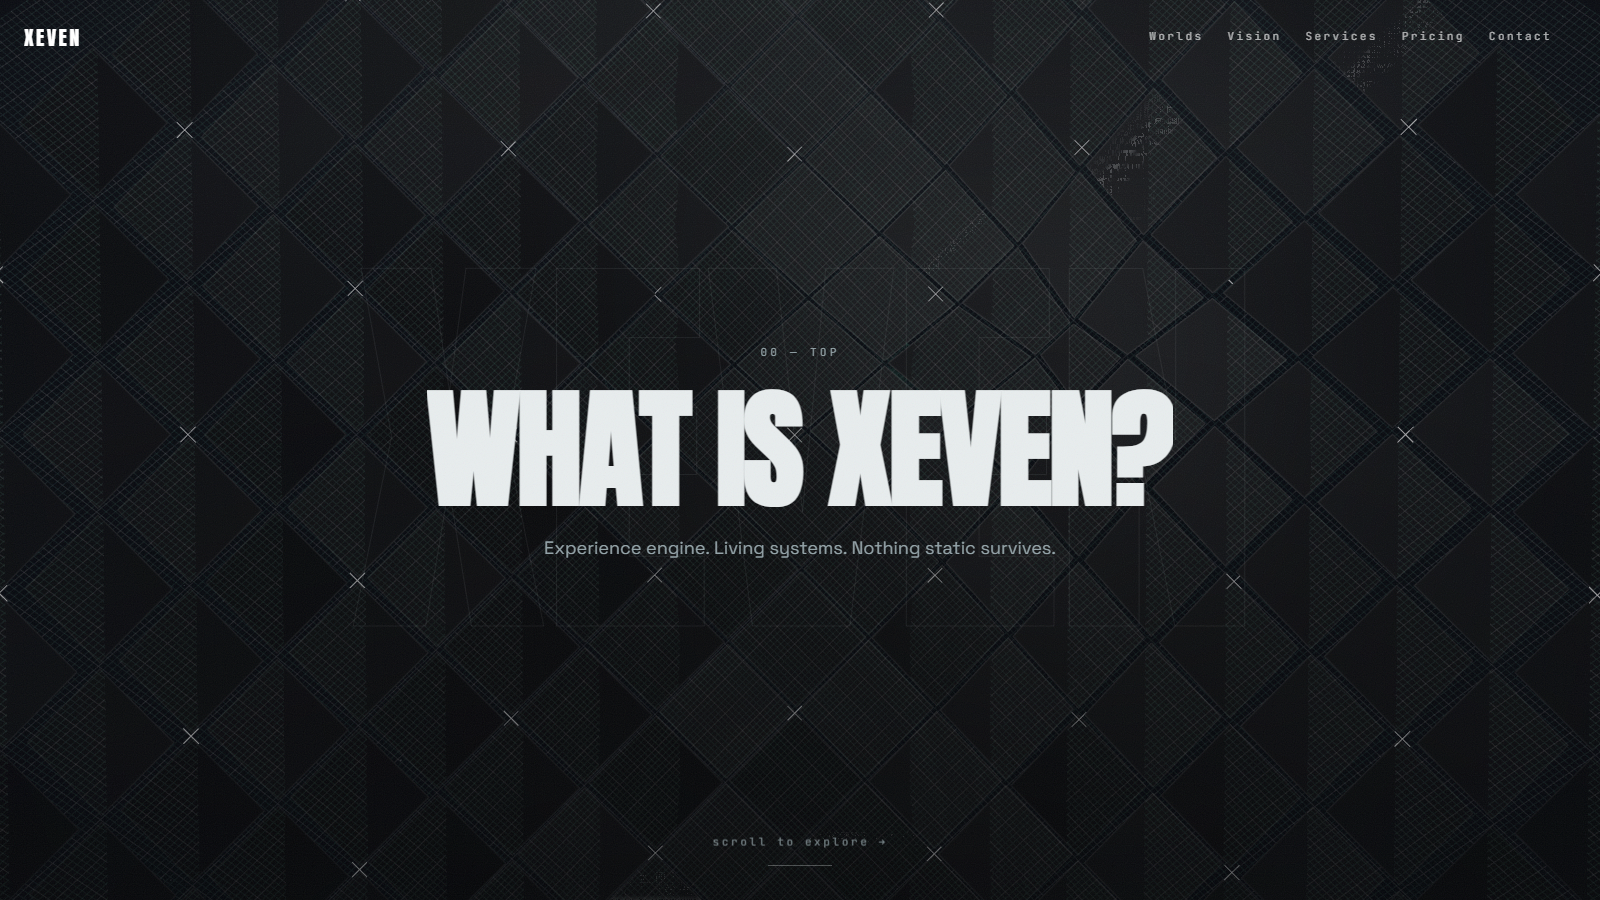
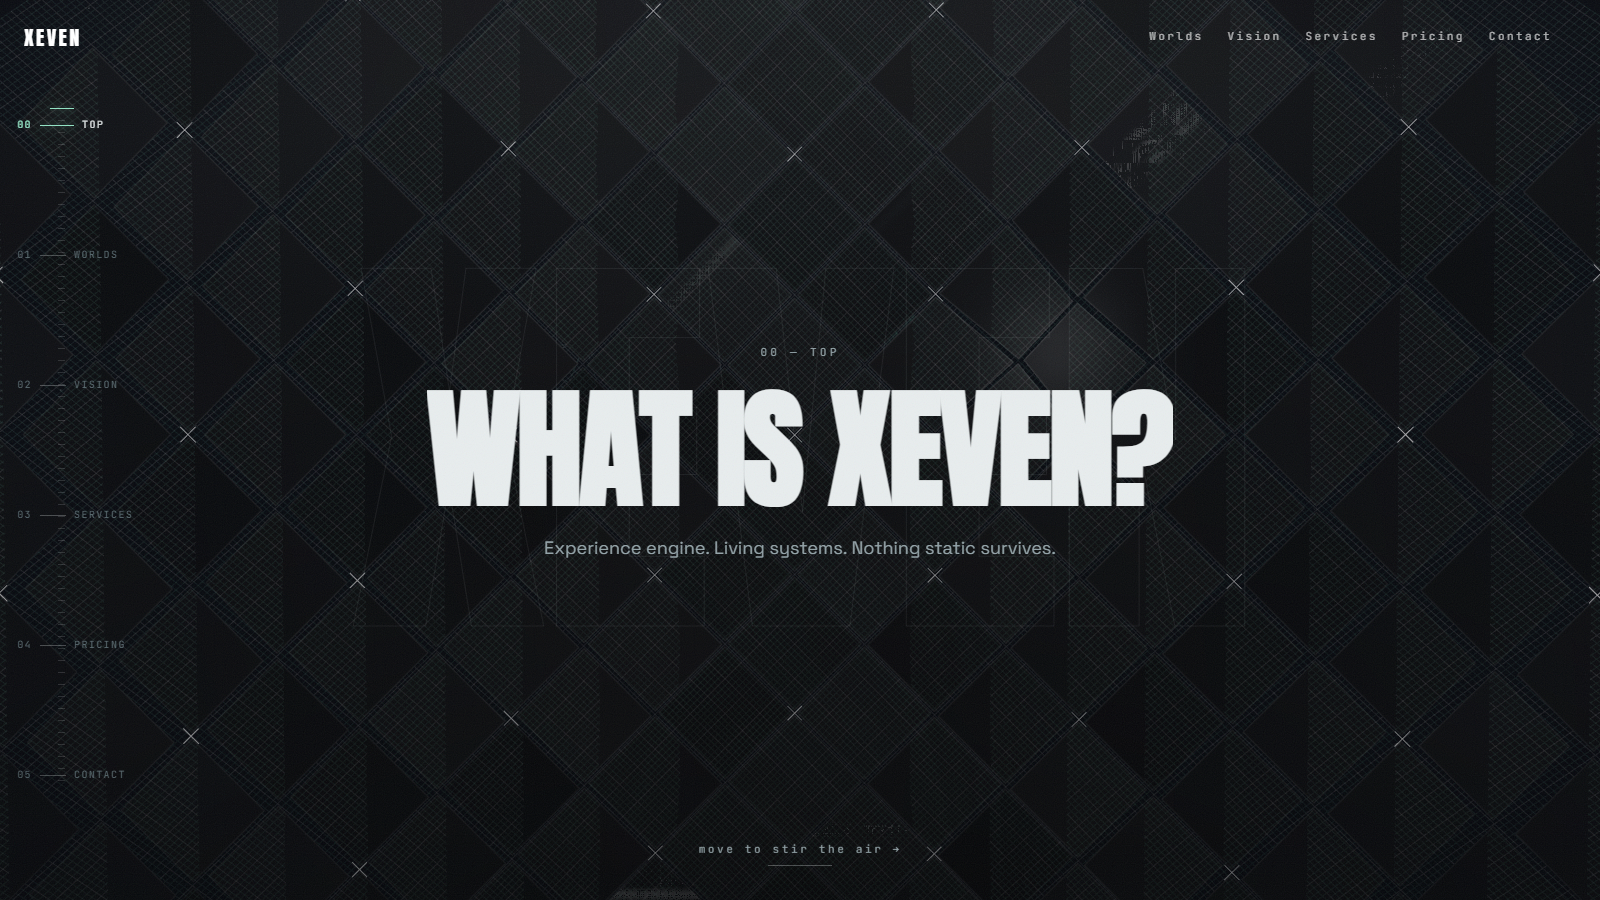
Fingertip air flare with trail, global survey ruler

diff --git a/src/components/VoidWorld.tsx b/src/components/VoidWorld.tsx
@@ -187,7 +187,9 @@ export default function VoidWorld() {
     quadGeo.setAttribute('aQJ', new THREE.InstancedBufferAttribute(aQJ, 1))
     const quadUniforms = {
       uTime: { value: 0 },
-      uWakePos: { value: new THREE.Vector2(9999, 9999) },
+      uTrail: {
+        value: Array.from({ length: 5 }, () => new THREE.Vector3(9999, 9999, 0)),
+      },
       uWakeVel: { value: new THREE.Vector2(0, 0) },
       uVel: { value: 0 },
       uShowcase: { value: 1 },
@@ -204,7 +206,7 @@ export default function VoidWorld() {
         varying float vSeed;
         varying float vQI;
         varying float vQJ;
-        uniform vec2 uWakePos;
+        uniform vec3 uTrail[5];
         uniform vec2 uWakeVel;
         void main() {
           vUv = uv;
@@ -212,21 +214,25 @@ export default function VoidWorld() {
           vQI = aQI;
           vQJ = aQJ;
           vec4 wp = modelMatrix * instanceMatrix * vec4(position, 1.0);
-          // air flare: the medium bends around the cursor's motion — a wide
-          // invisible pressure field that flares with speed and dies at
-          // rest. Displacement only; the body and trail stay invisible.
-          vec2 wdir = wp.xy - uWakePos;
-          float wdist = length(wdir);
-          float wfall = exp(-wdist * wdist / 32.0);
-          float wmag = min(1.0, length(uWakeVel) * 0.35) * 0.55 * wfall;
-          wp.xy -= (wdir / max(wdist, 1e-3)) * wmag;
+          // fingertip air: the head + its short trail bend the medium at
+          // touch scale (σ≈0.8u), gated by damped speed — dead at rest.
+          // No body, no glow, no trail geometry; only the bend reads.
+          float wspd = min(1.0, length(uWakeVel) * 0.35);
+          vec2 bend = vec2(0.0);
+          for (int i = 0; i < 5; i++) {
+            vec2 tdir = wp.xy - uTrail[i].xy;
+            float td = length(tdir);
+            float tfall = exp(-td * td / 1.3);
+            bend -= (tdir / max(td, 1e-3)) * (tfall * uTrail[i].z * 0.12);
+          }
+          wp.xy += bend * wspd;
           vWorld = wp.xyz;
           gl_Position = projectionMatrix * viewMatrix * wp;
         }
       `,
       fragmentShader: /* glsl */ `
         uniform float uTime;
-        uniform vec2 uWakePos;
+        uniform vec3 uTrail[5];
         uniform vec2 uWakeVel;
         uniform float uVel;
         uniform float uShowcase;
@@ -254,11 +260,15 @@ export default function VoidWorld() {
           float amp = 1.0 + uVel * 0.3;
           float glow = wave * amp;
           col += vec3(1.0) * glow * uShowcase;
-          // flare whisper: a breath of shimmer where the air bends (the
-          // bend does the talking; this stays barely visible)
+          // translucent air: the head + trail read as a faint neutral
+          // presence where the medium bends — visible, never prominent
           float wspd = min(1.0, length(uWakeVel) * 0.35);
-          float wdp = distance(vWorld.xy, uWakePos);
-          col += vec3(1.0) * exp(-wdp * wdp / 32.0) * wspd * 0.09 * uShowcase;
+          float air = 0.0;
+          for (int i = 0; i < 5; i++) {
+            vec2 adp = vWorld.xy - uTrail[i].xy;
+            air += exp(-dot(adp, adp) / 1.3) * uTrail[i].z;
+          }
+          col += vec3(1.0) * air * wspd * 0.05 * uShowcase;
           // roaming cinema: sparse panels on a 7s clock
           float slot = floor(uTime / 7.0);
           float lp = fract(uTime / 7.0);
@@ -375,14 +385,17 @@ export default function VoidWorld() {
       group.add(mesh)
     }
 
-    // ---- magnetic wake feed: damped pointer position + velocity drive
-    // the vertex bend. Eased (nothing snaps), decaying (nothing lingers).
+    // ---- fingertip air feed: eased pointer + a short decaying trail.
+    // Samples drop every ~40ms while inside; strengths drain per frame,
+    // so the trail evaporates behind motion and vanishes at rest.
     let btx = window.innerWidth / 2
     let bty = window.innerHeight / 2
     let bInside = false
     const wPos = { x: 9999, y: 9999 }
     const wVel = { x: 0, y: 0 }
     const wPrev = { x: 9999, y: 9999 }
+    const trail = Array.from({ length: 5 }, () => ({ x: 9999, y: 9999, s: 0 }))
+    let lastSample = 0
 
     // ---- waypoint journey ----
     let fracs: number[] = []
@@ -485,9 +498,9 @@ export default function VoidWorld() {
       const vBoost = Math.min(1, xs.vel * 1.5) * 0.3
       xs.vel *= 0.9
 
-      // magnetic wake: unproject the eased pointer once per frame, derive
-      // world velocity, damp both — the vertex bend follows motion and
-      // dies the moment it stops. No per-move writes.
+      // fingertip air: unproject the eased pointer once per frame, derive
+      // world velocity, lay trail samples, drain strengths — one uniform
+      // write, no per-move work
       wPos.x += (btx - wPos.x) * 0.25
       wPos.y += (bty - wPos.y) * 0.25
       ndc.set((wPos.x / window.innerWidth) * 2 - 1, -(wPos.y / window.innerHeight) * 2 + 1)
@@ -499,7 +512,16 @@ export default function VoidWorld() {
         wVel.y += (wvy - wVel.y) * 0.2
         wPrev.x = hit.x
         wPrev.y = hit.y
-        ;(quadUniforms.uWakePos.value as THREE.Vector2).set(hit.x, hit.y)
+        if (bInside && performance.now() - lastSample > 40) {
+          lastSample = performance.now()
+          trail.pop()
+          trail.unshift({ x: hit.x, y: hit.y, s: 1 })
+        }
+        const arr = quadUniforms.uTrail.value as THREE.Vector3[]
+        for (let i = 0; i < trail.length; i++) {
+          trail[i].s *= 0.9
+          arr[i].set(trail[i].x, trail[i].y, trail[i].s)
+        }
         ;(quadUniforms.uWakeVel.value as THREE.Vector2).set(wVel.x, wVel.y)
       }
       // uniforms: the whole quad field runs on time + scroll + wake

diff --git a/src/chrome.css b/src/chrome.css
@@ -127,44 +127,48 @@
   .xload-fast { animation: none; }
 }
 
-/* ---------- index section rail: detailed survey instrument ---------- */
-.rail {
-  position: fixed; left: 14px; top: 50%; transform: translateY(-50%);
-  z-index: 20; display: flex; flex-direction: column; gap: 6px;
-  opacity: 0.92;
+/* ---------- ruler: fake left-edge survey ruler, global ---------- */
+.ruler {
+  position: fixed; left: 14px; top: 12vh; bottom: 12vh; width: 132px;
+  z-index: 20; opacity: 0.92; pointer-events: none;
 }
-/* end caps: the instrument's survey brackets */
-.rail::before, .rail::after {
-  content: ''; position: absolute; left: 22px; width: 5px; height: 5px;
-  border: 1px solid var(--line-strong);
+/* cm ticks: fine subdivisions running the full travel between inches */
+.ruler-cm {
+  position: absolute; left: 44px; top: 0; bottom: 0; width: 7px;
+  background: repeating-linear-gradient(to bottom, var(--line-strong) 0 1px, transparent 1px 12px);
+  opacity: 0.55;
 }
-.rail::before { top: -14px; border-bottom: none; border-right: none; }
-.rail::after { bottom: -14px; border-top: none; border-right: none; }
-/* page-progress hairline running behind the ticks (sole writer: the rail
-   progress tween — transform-only, mint whisper) */
-.rail-progress {
-  position: absolute; left: 33px; top: 4px; bottom: 4px; width: 1px;
-  background: var(--mint); opacity: 0.7;
-  transform: scaleY(0); transform-origin: top center;
+/* inches: the main points, spread top→bottom; sole interactive children */
+.ruler-inches {
+  position: absolute; inset: 0;
+  display: flex; flex-direction: column; justify-content: space-between;
 }
-.rail-btn {
+.ruler-inch {
   display: flex; align-items: center; gap: 8px; padding: 0;
   font-family: var(--mono); font-size: 10px; letter-spacing: 0.14em;
-  color: var(--faint); min-height: 34px;
+  color: var(--faint); min-height: 34px; background: none; border: none;
+  pointer-events: auto; cursor: pointer;
   transition: color 150ms ease;
 }
-.rail-btn:hover { color: var(--bone); }
-.rail-btn:hover .rail-tick { width: 20px; background: var(--bone); }
-.rail-btn:focus-visible { outline: 1px solid var(--mint); outline-offset: 2px; color: var(--bone); }
-.rail-n { min-width: 18px; text-align: right; font-size: 10px; }
-.rail-tick { display: block; width: 14px; height: 1px; background: var(--line-strong); transition: width 180ms ease, background 180ms ease, box-shadow 180ms ease; }
-.rail-btn.rail-on { color: var(--bone); }
-.rail-btn.rail-on .rail-n { color: var(--mint); }
-.rail-btn.rail-on .rail-tick { width: 28px; background: var(--mint); box-shadow: 0 0 8px rgba(156, 245, 211, 0.8); }
-.rail-tag { color: var(--faint); font-size: 10px; letter-spacing: 0.14em; transition: color 150ms ease; }
-.rail-btn.rail-on .rail-tag, .rail-btn:hover .rail-tag { color: var(--bone); }
+.ruler-inch:hover { color: var(--bone); }
+.ruler-inch:hover .ruler-tick { width: 20px; background: var(--bone); }
+.ruler-inch:focus-visible { outline: 1px solid var(--mint); outline-offset: 2px; color: var(--bone); }
+.ruler-n { min-width: 18px; text-align: right; font-size: 10px; }
+.ruler-tick { display: block; width: 26px; height: 1px; background: var(--line-strong); transition: width 180ms ease, background 180ms ease, box-shadow 180ms ease; }
+.ruler-inch.ruler-on { color: var(--bone); }
+.ruler-inch.ruler-on .ruler-n { color: var(--mint); }
+.ruler-inch.ruler-on .ruler-tick { width: 34px; background: var(--mint); box-shadow: 0 0 8px rgba(156, 245, 211, 0.8); }
+.ruler-tag { color: var(--faint); font-size: 10px; letter-spacing: 0.14em; transition: color 150ms ease; }
+.ruler-inch.ruler-on .ruler-tag, .ruler-inch:hover .ruler-tag { color: var(--bone); }
+/* needle: rides page scroll top→bottom across the cm ticks (sole writer:
+   the rAF scroll hook — transform-only, direct set, no animation) */
+.ruler-needle {
+  position: absolute; left: 36px; top: 0; width: 24px; height: 1px;
+  background: var(--mint); box-shadow: 0 0 8px rgba(156, 245, 211, 0.8);
+  will-change: transform;
+}
 @media (max-width: 900px) {
-  .rail { display: none; }
+  .ruler { display: none; }
 }
 .intro-mini {
   position: absolute; top: 0; left: 0; right: 0;

diff --git a/src/components/RulerBar.tsx b/src/components/RulerBar.tsx
@@ -1,0 +1,65 @@
+import { useEffect, useRef } from 'react'
+import { navigate, type Route } from '../app/store'
+
+/* RulerBar: a fake left-edge ruler, mounted globally. Inch marks are the
+   main points (routes); cm ticks subdivide the travel between; a needle
+   rides page scroll top→bottom — cm by cm until the next inch. Clicking
+   an inch navigates. Hidden on small screens; scroll-linked (no animation)
+   so it stands down cleanly under reduced motion. */
+
+const INCHES: Array<{ n: string; label: string; to: Route }> = [
+  { n: '00', label: 'TOP', to: 'enter' },
+  { n: '01', label: 'WORLDS', to: 'worlds' },
+  { n: '02', label: 'VISION', to: 'vision' },
+  { n: '03', label: 'SERVICES', to: 'services' },
+  { n: '04', label: 'PRICING', to: 'pricing' },
+  { n: '05', label: 'CONTACT', to: 'contact' },
+]
+
+export default function RulerBar({ route }: { route: Route }) {
+  const needle = useRef<HTMLDivElement>(null!)
+  const track = useRef<HTMLDivElement>(null!)
+
+  useEffect(() => {
+    let raf = 0
+    const place = () => {
+      raf = 0
+      const max = document.documentElement.scrollHeight - window.innerHeight
+      const p = max > 0 ? Math.min(1, Math.max(0, window.scrollY / max)) : 0
+      needle.current.style.transform = `translateY(${(p * track.current.clientHeight).toFixed(1)}px)`
+    }
+    const queue = () => {
+      if (!raf) raf = requestAnimationFrame(place)
+    }
+    place()
+    window.addEventListener('scroll', queue, { passive: true })
+    window.addEventListener('resize', queue)
+    return () => {
+      window.removeEventListener('scroll', queue)
+      window.removeEventListener('resize', queue)
+      if (raf) cancelAnimationFrame(raf)
+    }
+  }, [route])
+
+  return (
+    <aside className="ruler" aria-label="Site ruler">
+      <div className="ruler-cm" aria-hidden="true" />
+      <div className="ruler-inches" ref={track}>
+        {INCHES.map((s) => (
+          <button
+            key={s.n}
+            className={route === s.to ? 'ruler-inch ruler-on' : 'ruler-inch'}
+            onClick={() => navigate(s.to)}
+            aria-label={`${s.n} — ${s.label}`}
+            aria-current={route === s.to ? 'page' : undefined}
+          >
+            <span className="ruler-n">{s.n}</span>
+            <i className="ruler-tick" aria-hidden="true" />
+            <span className="ruler-tag">{s.label}</span>
+          </button>
+        ))}
+      </div>
+      <div className="ruler-needle" ref={needle} aria-hidden="true" />
+    </aside>
+  )
+}

diff --git a/src/App.tsx b/src/App.tsx
@@ -3,6 +3,7 @@ import gsap from 'gsap'
 import { ScrollTrigger } from 'gsap/ScrollTrigger'
 import Lenis from 'lenis'
 import TopBar from './components/TopBar'
+import RulerBar from './components/RulerBar'
 import XLoader, { XMark } from './components/XLoader'
 import { navBus, routeFromHash, unknownHash, xs } from './app/store'
 import type { Route } from './app/store'
@@ -117,6 +118,8 @@ export default function App() {
       </a>
       {/* bar-free everywhere: content floats, the field is the chrome */}
       <TopBar route={route} />
+      {/* fake survey ruler: inches are routes, cm ticks the scroll travel */}
+      <RulerBar route={route} />
       <Suspense fallback={null}>
         <VoidWorld />
       </Suspense>

diff --git a/backlog.md b/backlog.md
@@ -55,7 +55,8 @@ Scope frozen: map-only phase found zero blank routes, zero dead links, zero cons
 - [x] Execute A — inward cylinder + glass + liquid + zero cursor light: bow inverted (centre recedes, flanks close — you sit inside it); all cursor-light uniforms/terms excised from shader + CPU (kindle, echo, stir, click/switch bloom — the pointer lights nothing); liquid press added (throttled 60ms stamps of position + time, in-shader ripple + gloss settling over ~3.5s); fixed glass finish layer (sheen + depth vignette, zero blur/filter) between world and content. Probed honestly: first pass too subtle (+2.5 zone lift), amplitudes retuned until the touch reads then decays. Verified: build green, 3 pre-existing warnings, Edge 0 errors, concave depth + press gloss frames confirmed. Evidence: verify/world/h0-liquid-press.png.
 - [x] Capabilities + Showreel overhaul (full authority): CAPS cards were empty gradient slabs in a sprawling zigzag — now spec sheets (stack chips WebGL/GLSL/60fps etc., ghost numerals kept, Tilt kept) on a tightened 12vh rhythm with rail-clear gutter. Showreel rebuilt as cinema: letterbox bars closing over the pin, Ken Burns breathing inside every hold (inner-media scale, zero writer conflicts), single-timeline takes with counter. Verified: build green, 3 pre-existing warnings, Edge 0 errors / 0 overflow, stage 03/05 mid-pin, 2 bars, 12 spec chips, rail clears cards. Frames VISUALLY VERIFIED (spec-sheet card + dealing deck; letterboxed Chrome-drift take with ghost marquee). Evidence: verify/world/d4-world.json + g1 + g4.
 - [x] Capabilities + Showreel creative destruction: CAPS cards + deck-throw + Tilt + ghosts fully removed — capabilities are now a SPECIMEN INDEX (giant ruled titles, IO opens the centered row revealing media + data + stack chips, click exclusive, reduced stands fully open). Showreel conveyor/stage gone — takes now ride an ORBITAL RING (scrubbed 360° revolution, upright unreadable-never titles, depth scale/opacity/zIndex, front-take counter, letterbox + ghost kept, single layout writer, viewport-relative ellipse = resize-proof). Verified: build green, 3 pre-existing warnings, Edge 0 errors / 0 overflow, counter live, 12 chips. Frames VISUALLY VERIFIED (open specimen with media+chips over ruled list; orbital depth collage with letterbox). Evidence: verify/world/d4-world.json + refreshed g1 + g4.
-- [x] Second from-scratch pass (caps + reel + finger): CAPABILITIES are sticky GLASS CHAPTERS (full-viewport frosted sheets, cascading sticky offsets, ghost numerals, media + specs — pure CSS, zero JS writers, free on mobile/reduced); SHOWREEL is an ASSEMBLY MOSAIC (takes scattered off-frame converge into a grid, hold fully landed, then disassemble — viewport-relative slot math, single timeline, transform/opacity only); cursor is a FINGERTIP (soft eased diffuse presence, ~1s in/out, zero rings/lines/chasing; ripple system deleted). Verified: builds green, 3 pre-existing warnings, Edge 0 errors / 0 overflow, finger zone +50% over reference with decay, mosaic hold beat added after catching overlap. Frames VISUALLY VERIFIED (glass chapter stack, mosaic collage, fingertip bloom). Evidence: verify/world/d4-world.json + g0-world-hero + g4-hold.
+- [x] Second from-scratch pass (caps + reel + finger): CAPABILITIES are sticky GLASS CHAPTERS (full-viewport frosted sheets, cascading sticky offsets, ghost numerals, media + specs — pure CSS, zero JS writers, free on mobile/reduced); SHOWREEL is an ASSEMBLY MOSAIC (takes scattered off-frame converge into a grid, hold fully landed, then disassemble — viewport-relative slot math, single timeline, transform/opacity only); cursor is a FINGERTIP (soft eased diffuse presence, ~1s in/out, zero rings/lines/chasing; ripple system deleted). Verified: builds green, 3 pre-existing warnings, Edge 0 errors / 0 overflow, finger zone +50% over reference with decay, mosaic hold beat added after catching overlap. Frames VISUALLY VERIFIED (glass chapter stack, mosaic collage, fingertip bloom). Evidence: verify/world/d4-world.json + g0-world-hero + g5-ruler.
+- [x] Fingertip air flare + global ruler: wake rebuilt at touch scale (σ≈0.8u, ±0.12u per tap) as head + 5-sample decaying trail (40ms samples, 0.9/frame drain), gated by damped speed so it evaporates at rest; translucency is a faint neutral 0.05 lift where the medium bends — no tint, no body, no glow, lines parked; new global RulerBar (6 inch marks = routes, cm tick column, rAF scroll needle, click-to-navigate, ≤900px hidden) replaces the deleted SectionRail (file + CSS removed). Verified: builds green, Edge 0 errors / 0 overflow, 6 inches, active 00TOP→02VISION follows route, needle 0→684px with scroll. Frames VISUALLY VERIFIED (ruler instrument, hero hold). Evidence: verify/world/d4-world.json + g0 + g5.
 - [x] Hero-only index + air flare: PROCESS and DEPARTURE sections deleted entirely (STEPS data, FootTime clock, thread/spine/stub/node JS + CSS, row arrivals, observer, foot rhythm, mark-fixed button + entrance/yield, rail unmounted, foot wordmark return); camera is a single hold over the hero; wake widened into an invisible air flare (σ 2.5→4u, ±0.4→0.55u, speed gain up, shimmer 0.05→0.09 — flares with motion, dead at rest, zero body/trail/light); pointermove now wakes the render loop (page has no scroll, so motion alone keeps the field alive); hero hint reworded to the flare. Verified: builds green, Edge 0 errors / 0 overflow, rail 0, proc/foot/mark gone, title intact. Frames VISUALLY VERIFIED (hero hold, concave field, no chrome). Evidence: verify/world/d4-world.json + g0 + g4.
 - [x] Nuke + depth stations + magnetic wake: CAPABILITIES and SHOWREEL sections deleted entirely (JSX, mosaic/stage JS, chapters/cells/counter/ghost/marquee CSS, CAPS/REEL data, VideoCard import); rail collapsed to 3 stops (00 TOP / 01 PROCESS / 02 DEPARTURE); camera journey recomputed with a deeper process dip (z 6.8); PROCESS rebuilt as depth stations — full-height rows (88svh) with ghost numerals that rise + materialize as the camera descends (one writer per row, transform/opacity only); cursor rebuilt as an invisible magnetic wake — panels bend toward the cursor's damped world velocity in the vertex shader (Gaussian σ≈2.5u, ±0.4u max, speed-scaled, dead when still) plus a 0.05 whisper shimmer; fingertip glow deleted, no body, no trail, no light. Verified: builds green, 3 pre-existing warnings, Edge 0 errors / 0 overflow, rail 3/3, 4 rows + 4 ghosts, stub drawn, finale landed. Frames VISUALLY VERIFIED (stations descent, departure finale). Evidence: verify/world/d4-world.json + g1 + g4.
 - [x] Reel declutter: white veil wash + letterbox bars fully removed (timeline, elements, CSS, reduced rules) — the orbit now floats pure on the diamond field with ghost + counter only. Verified: build green, 3 pre-existing warnings, Edge 0 errors / 0 overflow. Frame VISUALLY VERIFIED (clean dark orbit, no wash, no bars). Evidence: refreshed g4.
